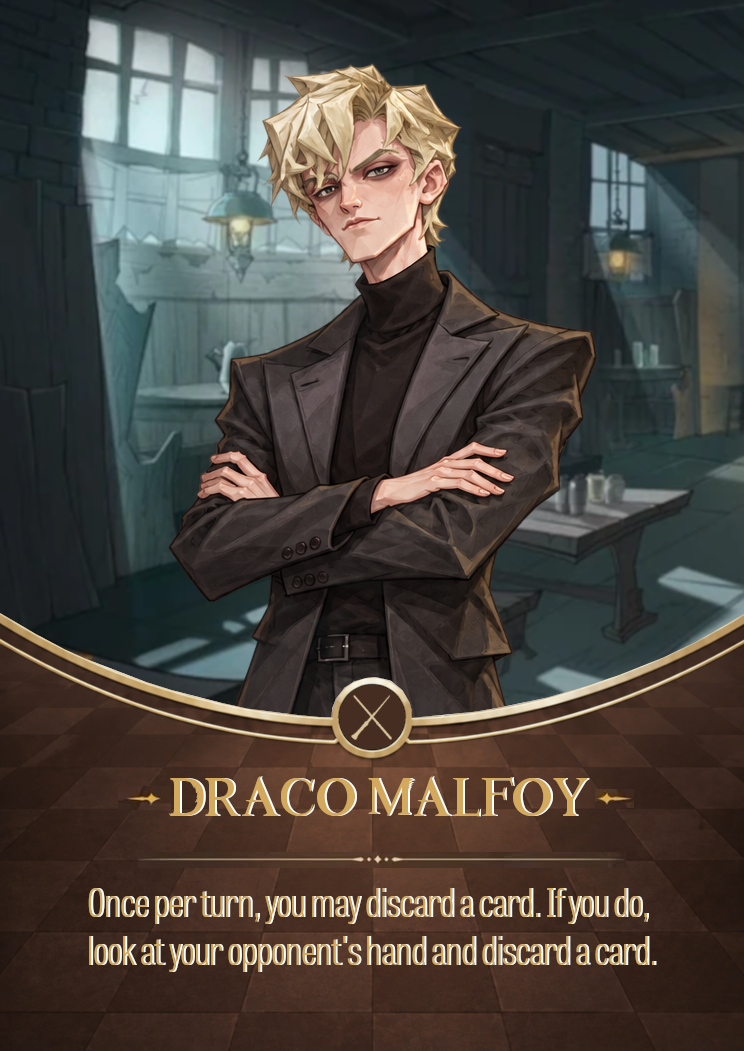
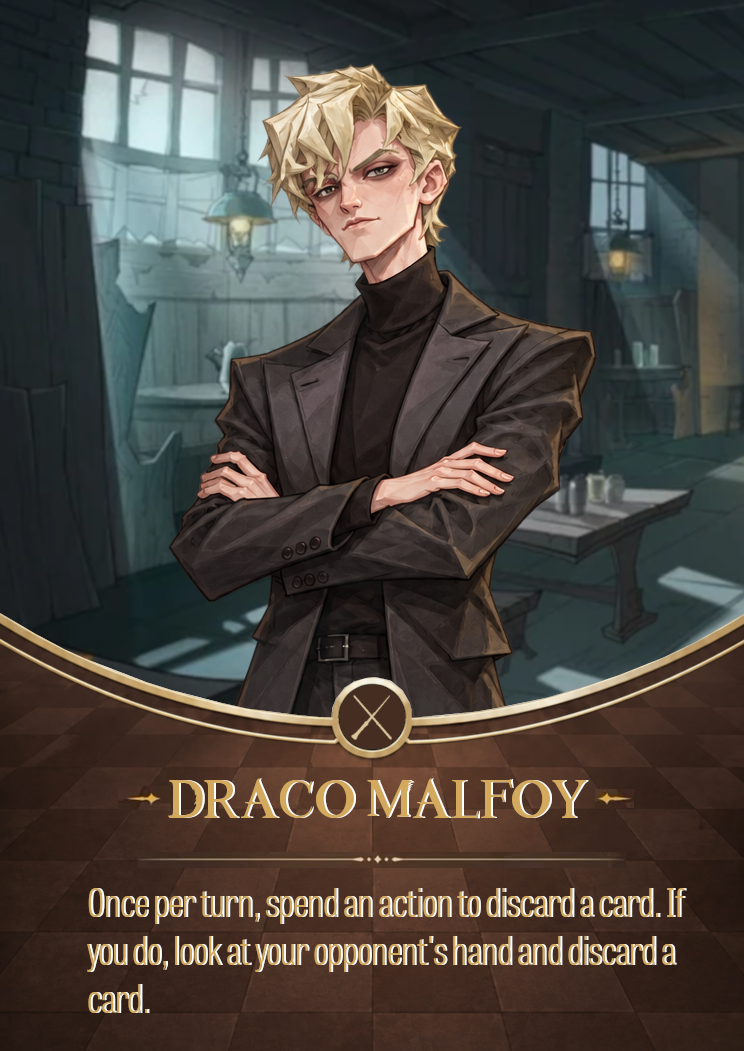
v2.1 Draco Hotfix

Changed region(s): [[0.1237, 0.8221, 0.9274, 0.9743], [0.2164, 0.7307, 0.8038, 0.7916]]

diff --git a/index.html b/index.html
@@ -258,7 +258,7 @@
 <div class="modal" id="deckCodeModal" style="z-index:1100;width:min(620px,94vw)"><div style="display:flex;justify-content:space-between;align-items:center;gap:8px"><h2 id="deckCodeTitle" style="margin:0">Deck Code</h2><button onclick="closeDeckCodeModal()">Close</button></div><p id="deckCodeHelp"></p><textarea id="deckCodeInput" spellcheck="false" style="width:100%;height:135px;resize:vertical;background:#0e1116;color:#eee;border:1px solid #48515e;border-radius:7px;padding:10px;font:12px monospace;margin:8px 0"></textarea><div style="display:flex;justify-content:flex-end;gap:8px"><button id="deckCodeCopy" onclick="copyDeckCode()">Copy Code</button><button id="deckCodeImport" onclick="importDeckCode()">Import Deck</button></div></div><div id="lookRevealOverlay" class="lookRevealOverlay" style="display:none"><div class="lookRevealPanel"><div class="lookRevealHeader"><b id="lookRevealTitle">Opponent reveals cards</b><button onclick="closeLookReveal()">Close</button></div><div id="lookRevealCards" class="lookRevealCards"></div></div></div><div class="deckModal" id="deckModal"><div class="deckBox"><div class="deckHead"><b id="deckTitle">Deck</b><button onclick="closeDeckViewer()">Close</button></div><div class="deckControls" id="deckControls"></div><div class="deckCards" id="deckCards"></div></div></div><script src="https://cdn.jsdelivr.net/npm/@supabase/supabase-js@2/dist/umd/supabase.js"></script><script>
 let id=1,phase='setup',turn=1,sel=null,selDeck=null,viewPlayer=1;const P={1:newP(),2:newP()};function newP(){return{main:[],lessonDeck:[],hand:[],handRevealed:false,lessons:[],play:[],discard:[],lessonDiscard:[],exile:[],mull:[],char:null,life:20,actionsLeft:2,lessonsPlayed:0,dobbyUsed:false}}
 let history=[];function snapshot(){return JSON.parse(JSON.stringify({P,phase,turn}));}function pushHistory(){if(phase!=='game')return;history.push(snapshot());if(history.length>50)history.shift();}function undoMove(){if(lobbyMode==='invite'&&onlineStarted){requestOnlineUndo();return}if(phase!=='game'||!history.length){toast('Nothing to undo.');return}let h=history.pop();Object.keys(P).forEach(k=>P[k]=h.P[k]);phase=h.phase;turn=h.turn;sel=null;selDeck=null;render();document.getElementById('status').textContent='Player '+turn+' Turn';toast('Last action undone.')}
-const CARD_DB={"Draco Malfoy":{"type":"Ally","domain":"Neutral","cost":0,"effect":"Once per turn, you may discard a card. If you do, look at your opponent's hand and discard a card.","image":"cards/allies/char_draco.png"},"Harry Potter":{"type":"Ally","domain":"Neutral","cost":0,"effect":"Once per turn, when you play your second card, draw 1 card.","image":"cards/allies/char_harry.png"},"Ron Weasley":{"type":"Ally","domain":"Neutral","cost":0,"effect":"When you play an Ally, it costs 1 Action instead of 2.","image":"cards/allies/char_ron.png"},"Hermione Granger":{"type":"Ally","domain":"Neutral","cost":0,"effect":"Once per turn, when you play your second spell, draw 1 Lesson.","image":"cards/allies/char_hermione.png"},"Luna Lovegood":{"type":"Ally","domain":"Neutral","cost":0,"effect":"Once per turn, if you control 6 or more Lessons, you may discard 2 Lessons to create a Thestral Token.","image":"cards/allies/char_luna.png"},"Neville Longbottom":{"type":"Ally","domain":"Neutral","cost":0,"effect":"Once per turn, when you play a Creature, you may restore 2 Health to a Creature or Player.","image":"cards/allies/char_neville.png"},"Dobby":{"type":"Ally","domain":"Neutral","cost":0,"effect":"Once per turn, you may discard 1 Lesson to destroy a Spell targeting you.","image":"cards/allies/char_dobby.png"},"Aquamenti":{"type":"Spell","domain":"Charms","cost":2,"effect":"Deal 2 damage to a Creature or player.","image":"cards/charms/charm_aguamenti.png"},"Flipendo":{"type":"Quick Spell","domain":"Charms","cost":2,"effect":"Return a Creature with a Cost of 3 or less to its owner's hand.","image":"cards/charms/charm_flipendo.png"},"Stupefy":{"type":"Spell","domain":"Charms","cost":2,"effect":"Deal 2 damage to a Creature or Player. If your opponent controls exactly one Creature, deal 2 additional damage to that Creature or the player.","image":"cards/charms/charm_stupefy.png"},"Episkey":{"type":"Spell","domain":"Charms","cost":2,"effect":"Restore 4 Health to a Creature or Player.","image":"cards/charms/charm_episkey.png"},"Expelliarmus":{"type":"Spell","domain":"Charms","cost":3,"effect":"Deal 2 damage to a Player. Additional Cost — Discard 1 Lesson: Destroy an Ongoing Spell or an Item.","image":"cards/charms/charm_expelliarmus.png"},"Priori Incantatem":{"type":"Spell","domain":"Charms","cost":3,"effect":"Discard a card from your hand. Return a Spell from your discard pile to your hand.","image":"cards/charms/charm_priori.png"},"Protego":{"type":"Quick Spell","domain":"Charms","cost":3,"effect":"Shield 5 to a target.","image":"cards/charms/charm_protego.png"},"Atmospheric Charm":{"type":"Spell","domain":"Charms","cost":5,"effect":"Each Player shuffles their hand into their deck, then draws 4 cards.","image":"cards/charms/charm_atmospheric.png"},"Incendio":{"type":"Spell","domain":"Charms","cost":5,"effect":"Deal 4 damage to a target and 1 damage to each other valid target in play.","image":"cards/charms/charm_incendio.png"},"Reducto":{"type":"Spell","domain":"Charms","cost":6,"effect":"Deal 1 damage to your opponent, plus 1 additional damage for each damage they have taken.","image":"cards/charms/charm_reducto.png"},"Wildfire Whiz Bangs":{"type":"Spell","domain":"Charms","cost":7,"effect":"Deal 7 damage to a Creature or Player.","image":"cards/charms/charm_whizbangs.png"},"Apparate":{"type":"Quick Spell","domain":"Transfiguration","cost":1,"effect":"Choose one: Destroy a Location; or destroy a Spell targeting you.","image":"cards/transfiguration/transf_apparate.png"},"Avis":{"type":"Spell","domain":"Transfiguration","cost":2,"effect":"Additional Cost — Discard 1 Transfiguration Lesson: Create 2 Bird Tokens.","image":"cards/transfiguration/transf_avis.png"},"Confundus":{"type":"Quick Spell","domain":"Transfiguration","cost":2,"effect":"Choose one: Look at your opponent's hand; or return a Spell your opponent is playing to their hand.","image":"cards/transfiguration/transf_confundus.png"},"Incarcerous":{"type":"Spell","domain":"Transfiguration","cost":2,"effect":"The next Spell you play this turn that targets an opponent's card affects all valid targets controlled by that opponent instead of one.","image":"cards/transfiguration/transf_incarcerous.png"},"Bat Bogey Hex":{"type":"Quick Spell","domain":"Transfiguration","cost":3,"effect":"Destroy a Spell with a Cost of 4 or less. If you do, draw a card.","image":"cards/transfiguration/transf_batbogeyhex.png"},"Glacius":{"type":"Ongoing Spell","domain":"Transfiguration","cost":2,"effect":"Countdown 1: Freeze a target.","image":"cards/transfiguration/transf_glacius.png"},"Glacius Maxima":{"type":"Ongoing Spell","domain":"Transfiguration","cost":4,"effect":"Countdown 2: Freeze up to 3 targets.","image":"cards/transfiguration/transf_glaciusmaxima.png"},"Oppugno":{"type":"Ongoing Spell","domain":"Transfiguration","cost":3,"effect":"Countdown 1: Deal 1 damage to a Player, plus 1 additional damage for every 2 Creatures you control.","image":"cards/transfiguration/transf_oppugno.png"},"Petrificus Totalus":{"type":"Quick Spell","domain":"Transfiguration","cost":3,"effect":"Choose one: Destroy an ally; or freeze a creature.","image":"cards/transfiguration/transf_petrificus.png"},"Carpe Retractum":{"type":"Spell","domain":"Transfiguration","cost":3,"effect":"Return up to 2 items you control to your hand.","image":"cards/transfiguration/transf_carperetractum.png"},"Piertotum Locomotor":{"type":"Spell","domain":"Transfiguration","cost":6,"effect":"Create 2 Stone Guardian Tokens.","image":"cards/transfiguration/transf_piertotum.png"},"Pawn":{"type":"Creature","domain":"Neutral","cost":2,"health":1,"damage":1,"effect":"When this is destroyed: draw 1 card.","image":"cards/creatures/creature_pawn.png"},"Bowtruckle":{"type":"Creature","domain":"Neutral","cost":2,"health":2,"damage":1,"effect":"When this enters play: look at the top 3 cards of your deck. You may reveal an Item among them and put it into your hand. Put the rest on the bottom.","image":"cards/creatures/creature_bowtruckle.png"},"Mooncalf":{"type":"Creature","domain":"Neutral","cost":2,"health":2,"damage":1,"effect":"The first time you play a Lesson each turn: Mooncalf gets +1 Damage until end of turn.","image":"cards/creatures/creature_mooncalf.png"},"Niffler":{"type":"Creature","domain":"Neutral","cost":2,"health":2,"damage":0,"effect":"Niffler counts as a Lesson while in play.","image":"cards/creatures/creature_niffler.png"},"Pixies":{"type":"Creature","domain":"Neutral","cost":2,"health":1,"damage":2,"effect":"When this enters play: if you control another Creature, draw 1 card.","image":"cards/creatures/creature_pixies.png"},"Snowman":{"type":"Creature","domain":"Neutral","cost":2,"health":3,"damage":1,"effect":"When this deals damage to a Player, Freeze an opposing Creature.","image":"cards/creatures/creature_snowman.png"},"Firecrab":{"type":"Creature","domain":"Neutral","cost":3,"health":4,"damage":2,"effect":"Block (You must deal damage to me first).","image":"cards/creatures/creature_firecrab.png"},"Monster Book":{"type":"Creature","domain":"Neutral","cost":3,"health":3,"damage":2,"effect":"When this enters play: return a Spell with Cost 3 or less from your discard pile to your hand.","image":"cards/creatures/creature_mosterbook.png"},"Transfiguration Lesson":{"type":"Lesson","cost":0,"domain":"Transfiguration","image":"cards/lessons/lesson_transfiguration.png"},"Charm Lesson":{"type":"Lesson","cost":0,"domain":"Charms","image":"cards/lessons/lesson_charm.png"},"Quidditch Lesson":{"type":"Lesson","cost":0,"domain":"Quidditch","image":"cards/lessons/lesson_quidditch.png"},"Potions & Items Lesson":{"type":"Lesson","cost":0,"domain":"Potions","image":"cards/lessons/lesson_potions.png"},"Dark Arts Lesson":{"type":"Lesson","cost":0,"domain":"Dark Arts","image":"cards/lessons/lesson_dark.png"},"Flying Broom":{"type":"Item","domain":"Quidditch","cost":2,"effect":"When this enters play, choose one: Draw 1 card or Discard a card to Draw a lesson.","image":"cards/quidditch/quidd_broom.png"},"Golden Snitch":{"type":"Item","domain":"Quidditch","cost":2,"effect":"When this enters play or is returned to its owner's hand, you may draw 1 card.","image":"cards/quidditch/quidd_snitch.png"},"Golden Snidget":{"type":"Creature","domain":"Quidditch","cost":2,"life":2,"damage":2,"effect":"Whenever this deals damage to a Player, draw a card.","image":"cards/quidditch/quidd_snidget.png"},"Bludger":{"type":"Item","domain":"Quidditch","cost":3,"effect":"When this enters play or is returned to its owner's hand, deal 2 damage to a target.","image":"cards/quidditch/quidd_bludger.png"},"Quidditch Kit":{"type":"Item","domain":"Quidditch","cost":3,"effect":"The first time you play a Quidditch card each turn, look at the top 2 cards of your deck. Put one into your hand and the other on the bottom.","image":"cards/quidditch/quidd_kit.png"},"Winged Catapult":{"type":"Creature","domain":"Quidditch","cost":3,"life":3,"damage":2,"effect":"Whenever this deals damage to a Player, look at the top card of your deck. You may put it on the bottom.","image":"cards/quidditch/quidd_winged.png"},"Beater":{"type":"Ally","domain":"Quidditch","cost":"-","effect":"Once per turn, you may discard a card: Return a Quidditch Item to its owner's hand.","image":"cards/quidditch/quidd_beater.png"},"Seeker":{"type":"Ally","domain":"Quidditch","cost":"-","effect":"Once per turn, search your deck for a Golden Snitch or Quidditch Item, reveal it, put it into your hand, then shuffle.","image":"cards/quidditch/quidd_seeker.png"},"Guardian":{"type":"Ally","domain":"Quidditch","cost":"-","effect":"When damage would be dealt to you or a Quidditch Creature you control, discard me to prevent that damage.","image":"cards/quidditch/quidd_guardian.png"},"Memory Vial":{"type":"Item","domain":"Potions","cost":3,"effect":"Once per turn, you may discard a card from your hand to draw a Lesson.","image":"cards/potions/potinos_memoryvial.png"},"Weasley Fireworks":{"type":"Item","domain":"Potions","cost":2,"effect":"Once per turn, deal 1 damage to a Creature.","image":"cards/potions/potinos_wealeyfireworks.png"},"Stone Guardian":{"type":"Creature","domain":"Neutral","cost":0,"health":4,"life":4,"damage":1,"effect":"Block (You must deal damage to me first).","image":"cards/tokens/token_stoneguardian.png","token":true},"Luna's Thestral":{"type":"Creature","domain":"Neutral","cost":0,"health":3,"life":3,"damage":3,"effect":"Sacrifice this and discard 2 Lessons: Deal 2 damage to a target, plus 1 additional damage for each Spell in your discard pile.","image":"cards/tokens/token_thestrals.png","token":true},"Magical Birds":{"type":"Creature","domain":"Neutral","cost":0,"health":1,"life":1,"damage":1,"effect":"","image":"cards/tokens/token_magicalbirds.png","token":true},"Diffindo":{"type":"Spell","domain":"Transfiguration","cost":5,"effect":"Deal 3 damage to a target. Then, deal 3 damage to each Frozen target.","image":"cards/transfiguration/transf_diffindo.png"},"Yeti":{"type":"Creature","domain":"Neutral","cost":5,"health":5,"damage":3,"effect":"Countdown 2: Freeze up to 3 targets.","image":"cards/creatures/creature_yeti.png"},"Orb of Water":{"type":"Ongoing Spell","domain":"Transfiguration","cost":6,"effect":"Countdown 1: Freeze up to 3 targets and deal 1 damage to each of them. When this card is discarded, deal 3 damage to the same targets.","image":"cards/transfiguration/transf_orb.png"},"Accio":{"type":"Spell","domain":"Charms","cost":3,"effect":"Return a Lesson from your discard pile to play.","image":"cards/charms/charm_accio.png"},"Wingardium Leviosa":{"type":"Spell","domain":"Charms","cost":3,"effect":"Additional Cost — Discard 1 Lesson: You may return an Item you control to your hand. If you paid the additional cost, return an Item from your discard pile to your hand.","image":"cards/charms/charm_wingardium.png"},"Nebulus":{"type":"Ongoing Spell","domain":"Charms","cost":4,"effect":"Countdown 2: Your opponent cannot target you with cards they control.","image":"cards/charms/charm_nebulus.png"},"Protego Totalum":{"type":"Spell","domain":"Charms","cost":6,"effect":"Shield 5 to you and each Creature you control.","image":"cards/charms/charm_protego_t.png"},"Slug Vomiting Charm":{"type":"Ongoing Spell","domain":"Charms","cost":2,"effect":"Countdown 2: Freeze your opponent's Starting Ally. Then, your opponent discards a card.","image":"cards/charms/charm_slugs.png"},"Expecto Patronus":{"type":"Spell","domain":"Transfiguration","cost":4,"effect":"Destroy a Creature with a Cost of 5 or less then draw 1. If it was a Dementor, draw 2.","image":"cards/transfiguration/transf_patronus.png"},"Time Turner":{"type":"Item","domain":"Potions","cost":6,"effect":"Once per turn, you may discard 3 cards from your hand to take 1 additional Action.","image":"cards/potions/potions_time.png"},"Portkey":{"type":"Item","domain":"Potions","cost":3,"effect":"Once per turn, you may shuffle a card from your hand to draw 1.","image":"cards/potions/potions_portkey.png"},"Chomping Cabbage":{"type":"Creature","domain":"Potions","cost":3,"health":3,"damage":2,"effect":"The first time you play a Potion each turn, Chomping Cabbage gets 1 additional damage.","image":"cards/potions/potinos_cabbage.png"},"Weasley Bomb Box":{"type":"Item","domain":"Potions","cost":4,"effect":"All Creatures you control deal 1 additional damage.","image":"cards/potions/potinos_weasleybombs.png"},"Swelling Solution":{"type":"Potion","domain":"Potions","cost":2,"effect":"Countdown 2: Your Creatures and Basic Casts deal 1 additional damage.","image":"cards/potions/potinos_swelling.png"},"Felix Felicis":{"type":"Potion","domain":"Potions","cost":5,"effect":"Countdown 1: Look at the top 3 cards of your deck. You may choose a Spell and play it for no cost.","image":"cards/potions/potinos_felix.png"},"Arrow Shooting Spell":{"type":"Ongoing Spell","domain":"Transfiguration","cost":3,"effect":"Countdown 1: Choose one: Deal 2 damage to a Player; or destroy a Creature with a Cost of 3 or less.","image":"cards/transfiguration/transf_arrow.png"},"Riddikulus":{"type":"Ongoing Spell","domain":"Charms","cost":3,"effect":"Freeze an Ally as long as this Spell is in play.","image":"cards/charms/charm_riddikulus.png"},"Obscurus":{"type":"Dark Spell","domain":"Dark Arts","cost":5,"effect":"Additional Cost — Discard your hand: Draw 3 cards. Deal 1 damage to your opponent for each card discarded this way, up to 5 damage.","image":"cards/dark/dark_obscurus.png"},"Sectumsempra":{"type":"Dark Spell","domain":"Dark Arts","cost":4,"effect":"Deal 3 damage to a target. If that target has already been dealt damage this turn, deal 3 additional damage to it. Your opponent cannot restore health next turn.","image":"cards/dark/dark_sectumsempra.png"},"Death Eater":{"type":"Ally","domain":"Dark Arts","cost":5,"effect":"Once per turn, look at the top 3 cards of your deck. If you find a Dark Spell, you may play it for 2 fewer Lessons. Shuffle the remaining cards.","image":"cards/dark/dark_deatheater.png"},"Imperio":{"type":"Dark Spell","domain":"Dark Arts","cost":6,"effect":"Additional Cost: Discard 1 Lesson: Choose a Creature or Ally. You gain control of it for as long as Imperio remains in play.","image":"cards/dark/dark_imperio.png"},"Vanishing Cabinet":{"type":"Item","domain":"Dark Arts","cost":3,"effect":"When this enters play or is discarded, draw 1 card.","image":"cards/dark/dark_cabinet.png"},"Enchanted Candy":{"type":"Item","domain":"Potions","cost":2,"effect":"The first Spell you play each turn deals 2 additional damage.","image":"cards/potions/potinos_candy.png"},"Impedimenta":{"type":"Ongoing Spell","domain":"Charms","cost":3,"effect":"Countdown 1: Your opponent has 1 fewer Action during their next turn.","image":"cards/charms/charm_impedimenta.png"},"Homorphus":{"type":"Spell","domain":"Transfiguration","cost":4,"effect":"Replace a Creature or Ally with a Wild Boar Token.","image":"cards/transfiguration/transf_homorphus.png"},"Wild Boar":{"type":"Creature","domain":"Neutral","cost":0,"health":1,"life":1,"damage":1,"effect":"","image":"cards/tokens/token_wildboar.png","token":true}};const BACKS={main:'cards/backs/main_back.png',lesson:'cards/backs/lesson_back.png'};const cards=Object.entries(CARD_DB).filter(([n,d])=>d.type!=='Lesson'&&!d.token).map(([n,d])=>[n,d.type,d.cost]);
+const CARD_DB={"Draco Malfoy":{"type":"Ally","domain":"Neutral","cost":0,"effect":"Once per turn, spend an action to discard a card. If you do, look at your opponent's hand and discard a card.","image":"cards/allies/char_draco.png"},"Harry Potter":{"type":"Ally","domain":"Neutral","cost":0,"effect":"Once per turn, when you play your second card, draw 1 card.","image":"cards/allies/char_harry.png"},"Ron Weasley":{"type":"Ally","domain":"Neutral","cost":0,"effect":"When you play an Ally, it costs 1 Action instead of 2.","image":"cards/allies/char_ron.png"},"Hermione Granger":{"type":"Ally","domain":"Neutral","cost":0,"effect":"Once per turn, when you play your second spell, draw 1 Lesson.","image":"cards/allies/char_hermione.png"},"Luna Lovegood":{"type":"Ally","domain":"Neutral","cost":0,"effect":"Once per turn, if you control 6 or more Lessons, you may discard 2 Lessons to create a Thestral Token.","image":"cards/allies/char_luna.png"},"Neville Longbottom":{"type":"Ally","domain":"Neutral","cost":0,"effect":"Once per turn, when you play a Creature, you may restore 2 Health to a Creature or Player.","image":"cards/allies/char_neville.png"},"Dobby":{"type":"Ally","domain":"Neutral","cost":0,"effect":"Once per turn, you may discard 1 Lesson to destroy a Spell targeting you.","image":"cards/allies/char_dobby.png"},"Aquamenti":{"type":"Spell","domain":"Charms","cost":2,"effect":"Deal 2 damage to a Creature or player.","image":"cards/charms/charm_aguamenti.png"},"Flipendo":{"type":"Quick Spell","domain":"Charms","cost":2,"effect":"Return a Creature with a Cost of 3 or less to its owner's hand.","image":"cards/charms/charm_flipendo.png"},"Stupefy":{"type":"Spell","domain":"Charms","cost":2,"effect":"Deal 2 damage to a Creature or Player. If your opponent controls exactly one Creature, deal 2 additional damage to that Creature or the player.","image":"cards/charms/charm_stupefy.png"},"Episkey":{"type":"Spell","domain":"Charms","cost":2,"effect":"Restore 4 Health to a Creature or Player.","image":"cards/charms/charm_episkey.png"},"Expelliarmus":{"type":"Spell","domain":"Charms","cost":3,"effect":"Deal 2 damage to a Player. Additional Cost — Discard 1 Lesson: Destroy an Ongoing Spell or an Item.","image":"cards/charms/charm_expelliarmus.png"},"Priori Incantatem":{"type":"Spell","domain":"Charms","cost":3,"effect":"Discard a card from your hand. Return a Spell from your discard pile to your hand.","image":"cards/charms/charm_priori.png"},"Protego":{"type":"Quick Spell","domain":"Charms","cost":3,"effect":"Shield 5 to a target.","image":"cards/charms/charm_protego.png"},"Atmospheric Charm":{"type":"Spell","domain":"Charms","cost":5,"effect":"Each Player shuffles their hand into their deck, then draws 4 cards.","image":"cards/charms/charm_atmospheric.png"},"Incendio":{"type":"Spell","domain":"Charms","cost":5,"effect":"Deal 4 damage to a target and 1 damage to each other valid target in play.","image":"cards/charms/charm_incendio.png"},"Reducto":{"type":"Spell","domain":"Charms","cost":6,"effect":"Deal 1 damage to your opponent, plus 1 additional damage for each damage they have taken.","image":"cards/charms/charm_reducto.png"},"Wildfire Whiz Bangs":{"type":"Spell","domain":"Charms","cost":7,"effect":"Deal 7 damage to a Creature or Player.","image":"cards/charms/charm_whizbangs.png"},"Apparate":{"type":"Quick Spell","domain":"Transfiguration","cost":1,"effect":"Choose one: Destroy a Location; or destroy a Spell targeting you.","image":"cards/transfiguration/transf_apparate.png"},"Avis":{"type":"Spell","domain":"Transfiguration","cost":2,"effect":"Additional Cost — Discard 1 Transfiguration Lesson: Create 2 Bird Tokens.","image":"cards/transfiguration/transf_avis.png"},"Confundus":{"type":"Quick Spell","domain":"Transfiguration","cost":2,"effect":"Choose one: Look at your opponent's hand; or return a Spell your opponent is playing to their hand.","image":"cards/transfiguration/transf_confundus.png"},"Incarcerous":{"type":"Spell","domain":"Transfiguration","cost":2,"effect":"The next Spell you play this turn that targets an opponent's card affects all valid targets controlled by that opponent instead of one.","image":"cards/transfiguration/transf_incarcerous.png"},"Bat Bogey Hex":{"type":"Quick Spell","domain":"Transfiguration","cost":3,"effect":"Destroy a Spell with a Cost of 4 or less. If you do, draw a card.","image":"cards/transfiguration/transf_batbogeyhex.png"},"Glacius":{"type":"Ongoing Spell","domain":"Transfiguration","cost":2,"effect":"Countdown 1: Freeze a target.","image":"cards/transfiguration/transf_glacius.png"},"Glacius Maxima":{"type":"Ongoing Spell","domain":"Transfiguration","cost":4,"effect":"Countdown 2: Freeze up to 3 targets.","image":"cards/transfiguration/transf_glaciusmaxima.png"},"Oppugno":{"type":"Ongoing Spell","domain":"Transfiguration","cost":3,"effect":"Countdown 1: Deal 1 damage to a Player, plus 1 additional damage for every 2 Creatures you control.","image":"cards/transfiguration/transf_oppugno.png"},"Petrificus Totalus":{"type":"Quick Spell","domain":"Transfiguration","cost":3,"effect":"Choose one: Destroy an ally; or freeze a creature.","image":"cards/transfiguration/transf_petrificus.png"},"Carpe Retractum":{"type":"Spell","domain":"Transfiguration","cost":3,"effect":"Return up to 2 items you control to your hand.","image":"cards/transfiguration/transf_carperetractum.png"},"Piertotum Locomotor":{"type":"Spell","domain":"Transfiguration","cost":6,"effect":"Create 2 Stone Guardian Tokens.","image":"cards/transfiguration/transf_piertotum.png"},"Pawn":{"type":"Creature","domain":"Neutral","cost":2,"health":1,"damage":1,"effect":"When this is destroyed: draw 1 card.","image":"cards/creatures/creature_pawn.png"},"Bowtruckle":{"type":"Creature","domain":"Neutral","cost":2,"health":2,"damage":1,"effect":"When this enters play: look at the top 3 cards of your deck. You may reveal an Item among them and put it into your hand. Put the rest on the bottom.","image":"cards/creatures/creature_bowtruckle.png"},"Mooncalf":{"type":"Creature","domain":"Neutral","cost":2,"health":2,"damage":1,"effect":"The first time you play a Lesson each turn: Mooncalf gets +1 Damage until end of turn.","image":"cards/creatures/creature_mooncalf.png"},"Niffler":{"type":"Creature","domain":"Neutral","cost":2,"health":2,"damage":0,"effect":"Niffler counts as a Lesson while in play.","image":"cards/creatures/creature_niffler.png"},"Pixies":{"type":"Creature","domain":"Neutral","cost":2,"health":1,"damage":2,"effect":"When this enters play: if you control another Creature, draw 1 card.","image":"cards/creatures/creature_pixies.png"},"Snowman":{"type":"Creature","domain":"Neutral","cost":2,"health":3,"damage":1,"effect":"When this deals damage to a Player, Freeze an opposing Creature.","image":"cards/creatures/creature_snowman.png"},"Firecrab":{"type":"Creature","domain":"Neutral","cost":3,"health":4,"damage":2,"effect":"Block (You must deal damage to me first).","image":"cards/creatures/creature_firecrab.png"},"Monster Book":{"type":"Creature","domain":"Neutral","cost":3,"health":3,"damage":2,"effect":"When this enters play: return a Spell with Cost 3 or less from your discard pile to your hand.","image":"cards/creatures/creature_mosterbook.png"},"Transfiguration Lesson":{"type":"Lesson","cost":0,"domain":"Transfiguration","image":"cards/lessons/lesson_transfiguration.png"},"Charm Lesson":{"type":"Lesson","cost":0,"domain":"Charms","image":"cards/lessons/lesson_charm.png"},"Quidditch Lesson":{"type":"Lesson","cost":0,"domain":"Quidditch","image":"cards/lessons/lesson_quidditch.png"},"Potions & Items Lesson":{"type":"Lesson","cost":0,"domain":"Potions","image":"cards/lessons/lesson_potions.png"},"Dark Arts Lesson":{"type":"Lesson","cost":0,"domain":"Dark Arts","image":"cards/lessons/lesson_dark.png"},"Flying Broom":{"type":"Item","domain":"Quidditch","cost":2,"effect":"When this enters play, choose one: Draw 1 card or Discard a card to Draw a lesson.","image":"cards/quidditch/quidd_broom.png"},"Golden Snitch":{"type":"Item","domain":"Quidditch","cost":2,"effect":"When this enters play or is returned to its owner's hand, you may draw 1 card.","image":"cards/quidditch/quidd_snitch.png"},"Golden Snidget":{"type":"Creature","domain":"Quidditch","cost":2,"life":2,"damage":2,"effect":"Whenever this deals damage to a Player, draw a card.","image":"cards/quidditch/quidd_snidget.png"},"Bludger":{"type":"Item","domain":"Quidditch","cost":3,"effect":"When this enters play or is returned to its owner's hand, deal 2 damage to a target.","image":"cards/quidditch/quidd_bludger.png"},"Quidditch Kit":{"type":"Item","domain":"Quidditch","cost":3,"effect":"The first time you play a Quidditch card each turn, look at the top 2 cards of your deck. Put one into your hand and the other on the bottom.","image":"cards/quidditch/quidd_kit.png"},"Winged Catapult":{"type":"Creature","domain":"Quidditch","cost":3,"life":3,"damage":2,"effect":"Whenever this deals damage to a Player, look at the top card of your deck. You may put it on the bottom.","image":"cards/quidditch/quidd_winged.png"},"Beater":{"type":"Ally","domain":"Quidditch","cost":"-","effect":"Once per turn, you may discard a card: Return a Quidditch Item to its owner's hand.","image":"cards/quidditch/quidd_beater.png"},"Seeker":{"type":"Ally","domain":"Quidditch","cost":"-","effect":"Once per turn, search your deck for a Golden Snitch or Quidditch Item, reveal it, put it into your hand, then shuffle.","image":"cards/quidditch/quidd_seeker.png"},"Guardian":{"type":"Ally","domain":"Quidditch","cost":"-","effect":"When damage would be dealt to you or a Quidditch Creature you control, discard me to prevent that damage.","image":"cards/quidditch/quidd_guardian.png"},"Memory Vial":{"type":"Item","domain":"Potions","cost":3,"effect":"Once per turn, you may discard a card from your hand to draw a Lesson.","image":"cards/potions/potinos_memoryvial.png"},"Weasley Fireworks":{"type":"Item","domain":"Potions","cost":2,"effect":"Once per turn, deal 1 damage to a Creature.","image":"cards/potions/potinos_wealeyfireworks.png"},"Stone Guardian":{"type":"Creature","domain":"Neutral","cost":0,"health":4,"life":4,"damage":1,"effect":"Block (You must deal damage to me first).","image":"cards/tokens/token_stoneguardian.png","token":true},"Luna's Thestral":{"type":"Creature","domain":"Neutral","cost":0,"health":3,"life":3,"damage":3,"effect":"Sacrifice this and discard 2 Lessons: Deal 2 damage to a target, plus 1 additional damage for each Spell in your discard pile.","image":"cards/tokens/token_thestrals.png","token":true},"Magical Birds":{"type":"Creature","domain":"Neutral","cost":0,"health":1,"life":1,"damage":1,"effect":"","image":"cards/tokens/token_magicalbirds.png","token":true},"Diffindo":{"type":"Spell","domain":"Transfiguration","cost":5,"effect":"Deal 3 damage to a target. Then, deal 3 damage to each Frozen target.","image":"cards/transfiguration/transf_diffindo.png"},"Yeti":{"type":"Creature","domain":"Neutral","cost":5,"health":5,"damage":3,"effect":"Countdown 2: Freeze up to 3 targets.","image":"cards/creatures/creature_yeti.png"},"Orb of Water":{"type":"Ongoing Spell","domain":"Transfiguration","cost":6,"effect":"Countdown 1: Freeze up to 3 targets and deal 1 damage to each of them. When this card is discarded, deal 3 damage to the same targets.","image":"cards/transfiguration/transf_orb.png"},"Accio":{"type":"Spell","domain":"Charms","cost":3,"effect":"Return a Lesson from your discard pile to play.","image":"cards/charms/charm_accio.png"},"Wingardium Leviosa":{"type":"Spell","domain":"Charms","cost":3,"effect":"Additional Cost — Discard 1 Lesson: You may return an Item you control to your hand. If you paid the additional cost, return an Item from your discard pile to your hand.","image":"cards/charms/charm_wingardium.png"},"Nebulus":{"type":"Ongoing Spell","domain":"Charms","cost":4,"effect":"Countdown 2: Your opponent cannot target you with cards they control.","image":"cards/charms/charm_nebulus.png"},"Protego Totalum":{"type":"Spell","domain":"Charms","cost":6,"effect":"Shield 5 to you and each Creature you control.","image":"cards/charms/charm_protego_t.png"},"Slug Vomiting Charm":{"type":"Ongoing Spell","domain":"Charms","cost":2,"effect":"Countdown 2: Freeze your opponent's Starting Ally. Then, your opponent discards a card.","image":"cards/charms/charm_slugs.png"},"Expecto Patronus":{"type":"Spell","domain":"Transfiguration","cost":4,"effect":"Destroy a Creature with a Cost of 5 or less then draw 1. If it was a Dementor, draw 2.","image":"cards/transfiguration/transf_patronus.png"},"Time Turner":{"type":"Item","domain":"Potions","cost":6,"effect":"Once per turn, you may discard 3 cards from your hand to take 1 additional Action.","image":"cards/potions/potions_time.png"},"Portkey":{"type":"Item","domain":"Potions","cost":3,"effect":"Once per turn, you may shuffle a card from your hand to draw 1.","image":"cards/potions/potions_portkey.png"},"Chomping Cabbage":{"type":"Creature","domain":"Potions","cost":3,"health":3,"damage":2,"effect":"The first time you play a Potion each turn, Chomping Cabbage gets 1 additional damage.","image":"cards/potions/potinos_cabbage.png"},"Weasley Bomb Box":{"type":"Item","domain":"Potions","cost":4,"effect":"All Creatures you control deal 1 additional damage.","image":"cards/potions/potinos_weasleybombs.png"},"Swelling Solution":{"type":"Potion","domain":"Potions","cost":2,"effect":"Countdown 2: Your Creatures and Basic Casts deal 1 additional damage.","image":"cards/potions/potinos_swelling.png"},"Felix Felicis":{"type":"Potion","domain":"Potions","cost":5,"effect":"Countdown 1: Look at the top 3 cards of your deck. You may choose a Spell and play it for no cost.","image":"cards/potions/potinos_felix.png"},"Arrow Shooting Spell":{"type":"Ongoing Spell","domain":"Transfiguration","cost":3,"effect":"Countdown 1: Choose one: Deal 2 damage to a Player; or destroy a Creature with a Cost of 3 or less.","image":"cards/transfiguration/transf_arrow.png"},"Riddikulus":{"type":"Ongoing Spell","domain":"Charms","cost":3,"effect":"Freeze an Ally as long as this Spell is in play.","image":"cards/charms/charm_riddikulus.png"},"Obscurus":{"type":"Dark Spell","domain":"Dark Arts","cost":5,"effect":"Additional Cost — Discard your hand: Draw 3 cards. Deal 1 damage to your opponent for each card discarded this way, up to 5 damage.","image":"cards/dark/dark_obscurus.png"},"Sectumsempra":{"type":"Dark Spell","domain":"Dark Arts","cost":4,"effect":"Deal 3 damage to a target. If that target has already been dealt damage this turn, deal 3 additional damage to it. Your opponent cannot restore health next turn.","image":"cards/dark/dark_sectumsempra.png"},"Death Eater":{"type":"Ally","domain":"Dark Arts","cost":5,"effect":"Once per turn, look at the top 3 cards of your deck. If you find a Dark Spell, you may play it for 2 fewer Lessons. Shuffle the remaining cards.","image":"cards/dark/dark_deatheater.png"},"Imperio":{"type":"Dark Spell","domain":"Dark Arts","cost":6,"effect":"Additional Cost: Discard 1 Lesson: Choose a Creature or Ally. You gain control of it for as long as Imperio remains in play.","image":"cards/dark/dark_imperio.png"},"Vanishing Cabinet":{"type":"Item","domain":"Dark Arts","cost":3,"effect":"When this enters play or is discarded, draw 1 card.","image":"cards/dark/dark_cabinet.png"},"Enchanted Candy":{"type":"Item","domain":"Potions","cost":2,"effect":"The first Spell you play each turn deals 2 additional damage.","image":"cards/potions/potinos_candy.png"},"Impedimenta":{"type":"Ongoing Spell","domain":"Charms","cost":3,"effect":"Countdown 1: Your opponent has 1 fewer Action during their next turn.","image":"cards/charms/charm_impedimenta.png"},"Homorphus":{"type":"Spell","domain":"Transfiguration","cost":4,"effect":"Replace a Creature or Ally with a Wild Boar Token.","image":"cards/transfiguration/transf_homorphus.png"},"Wild Boar":{"type":"Creature","domain":"Neutral","cost":0,"health":1,"life":1,"damage":1,"effect":"","image":"cards/tokens/token_wildboar.png","token":true}};const BACKS={main:'cards/backs/main_back.png',lesson:'cards/backs/lesson_back.png'};const cards=Object.entries(CARD_DB).filter(([n,d])=>d.type!=='Lesson'&&!d.token).map(([n,d])=>[n,d.type,d.cost]);
 function C(n,t,c,img=null){return{id:id++,name:n,type:t,cost:c,counter:0,life:t==='Creature'?null:null,image:img,face:1,tapped:false,frozen:false,shield:false,rot:0,x:10,y:10}}function sh(a){for(let i=a.length-1;i>0;i--){let j=Math.random()*(i+1)|0;[a[i],a[j]]=[a[j],a[i]]}return a}function cardFromDB(name,extra={}){let d=CARD_DB[name];if(!d)throw new Error('Card not found in database: '+name);return C(name,d.type,d.cost,extra.image||d.image||null)}function buildCards(list){return list.flatMap(entry=>{if(typeof entry==='string')return[cardFromDB(entry)];let n=entry.name,count=entry.count||1;return Array.from({length:count},()=>cardFromDB(n,entry))})}function draw(p,n=1){let count=0;while(n--&&P[p].main.length){P[p].hand.push(P[p].main.pop());count++;}if(count&&phase!=='setup')playGameplaySfx('card')}function toast(t){let x=document.getElementById('toast');x.textContent=t;x.classList.add('show');setTimeout(()=>x.classList.remove('show'),1300)}
 let loadedDecks={1:null,2:null};
 
